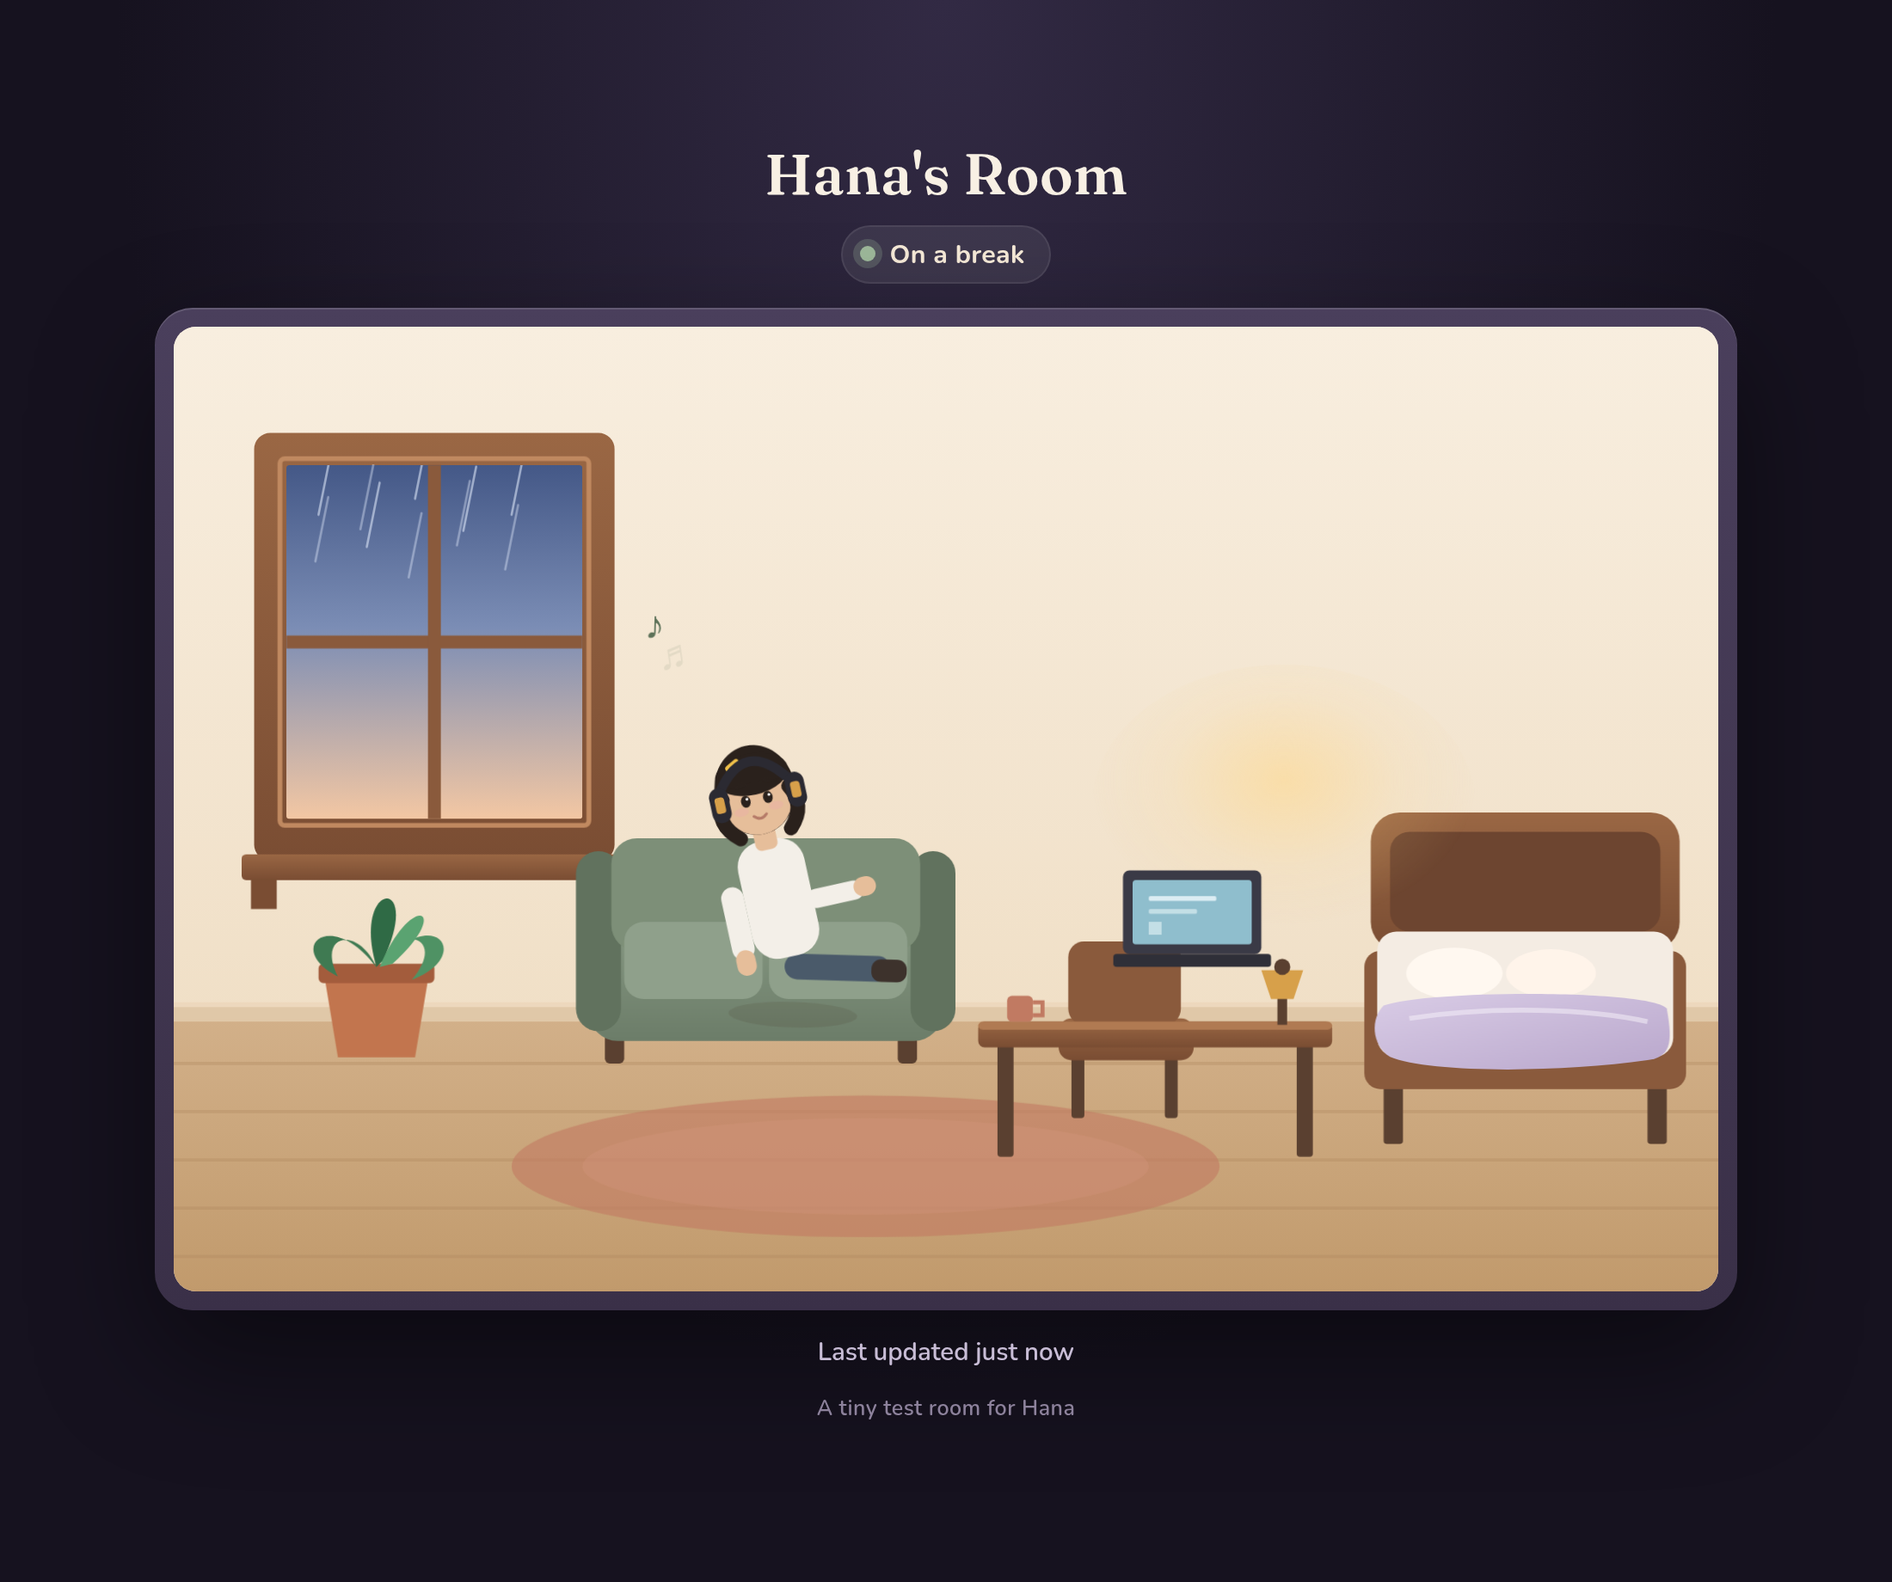
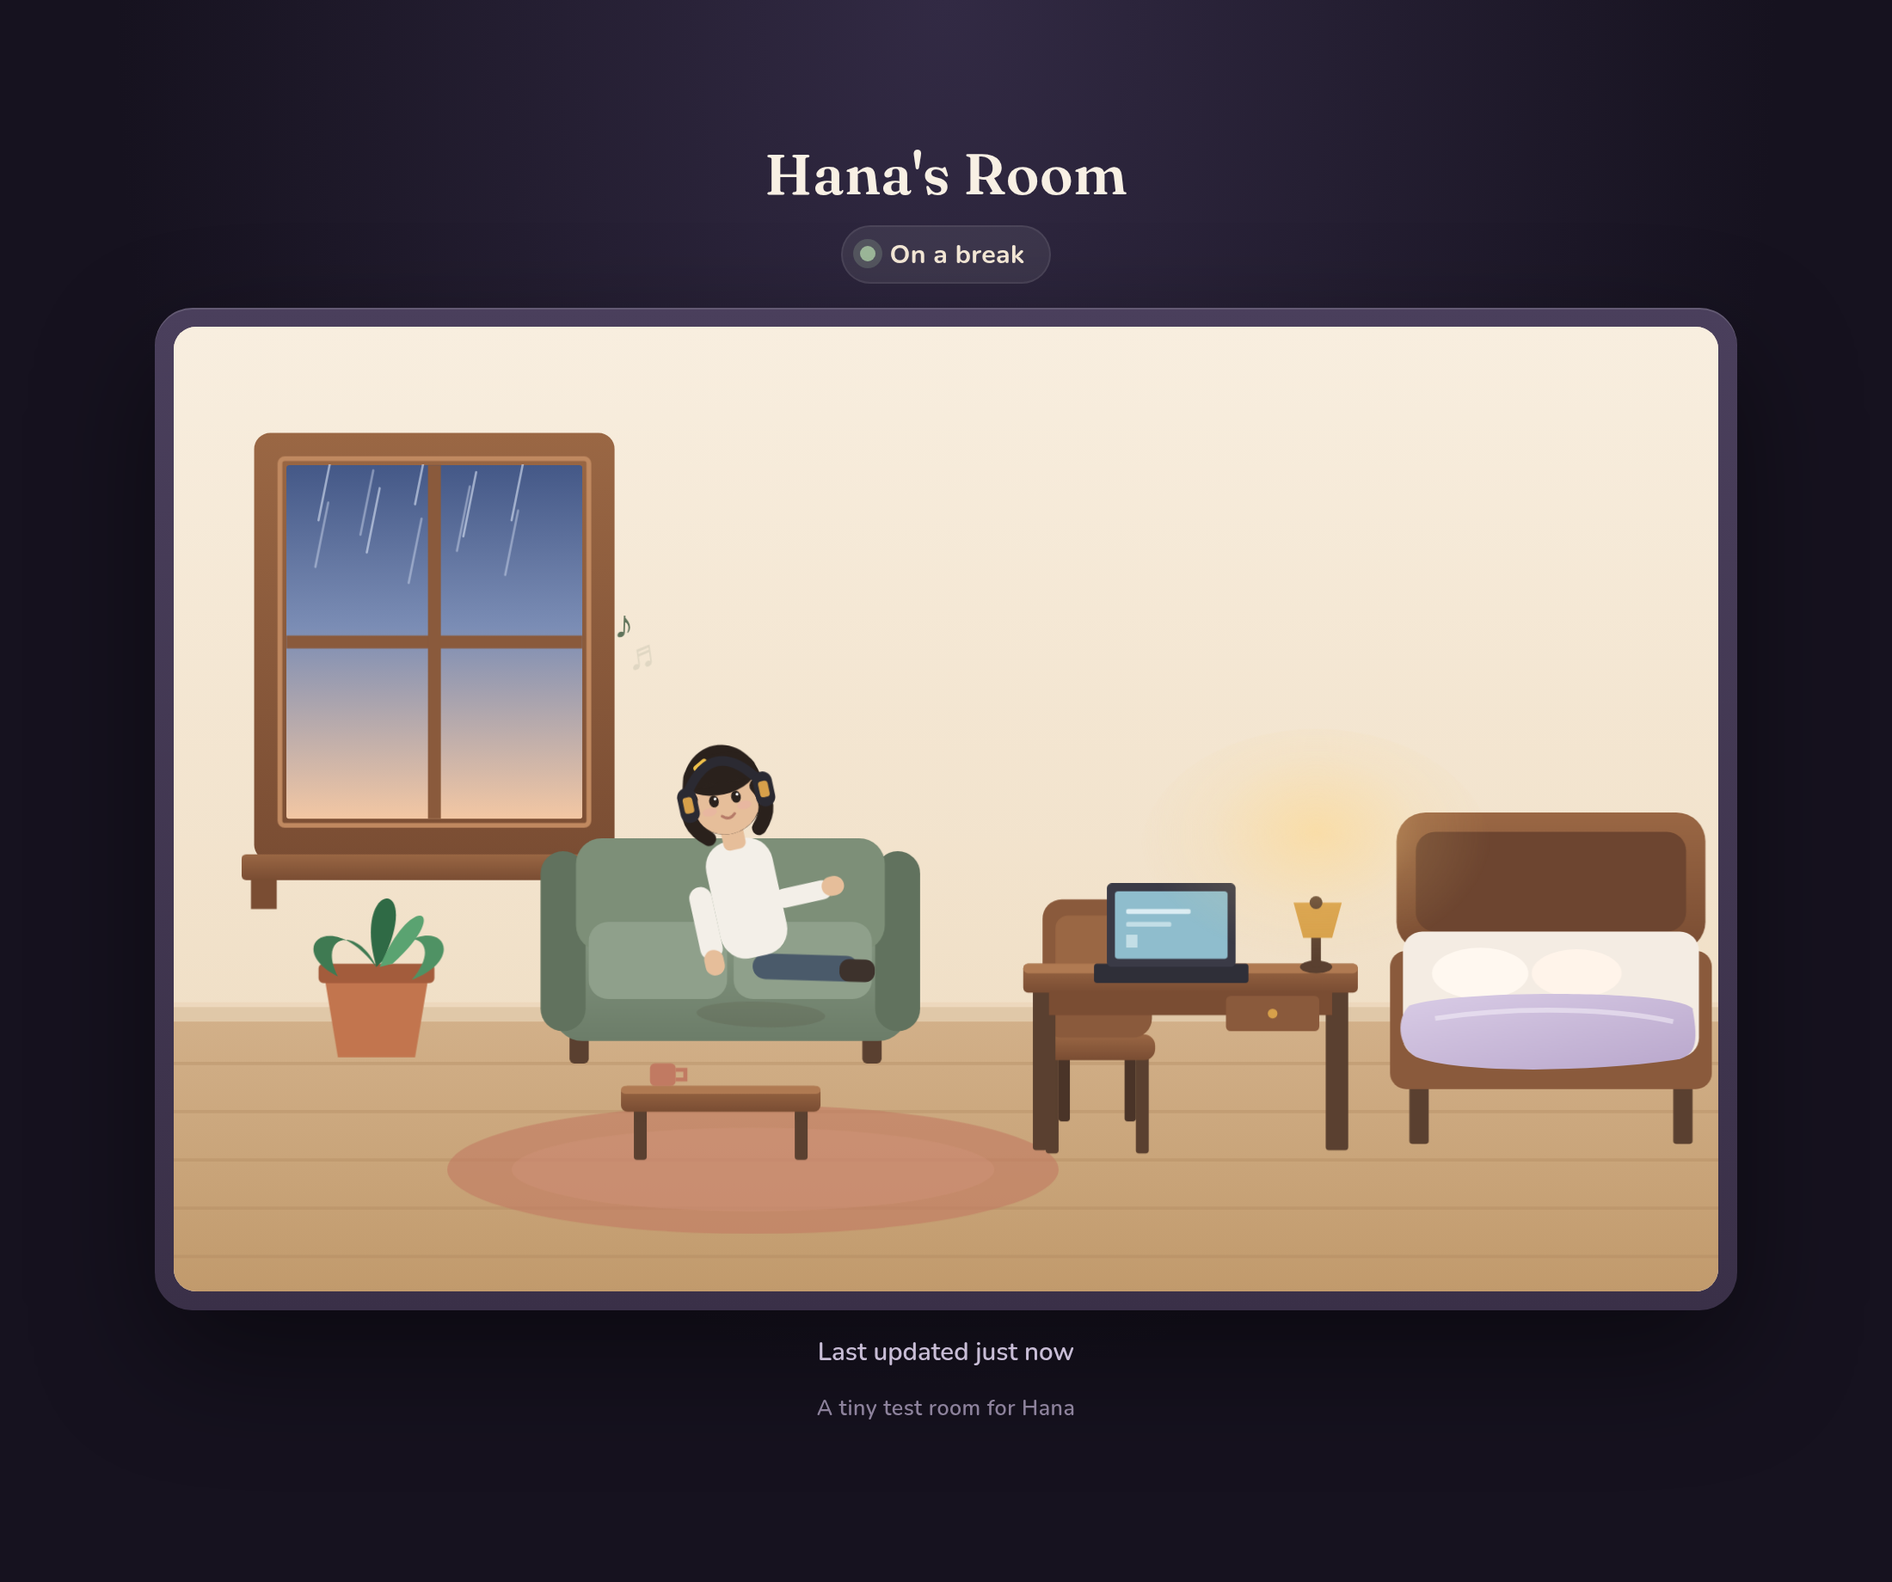
Fix room layout: real desk and chair, laptop sits on the desk
Move the coffee table in front of the couch. Seat Hana in a desk chair at a proper-height desk with the laptop flush on the surface and her hands on the keyboard.

Changed region(s): [[0.2164, 0.4647, 0.7727, 0.7745], [0.8345, 0.4957, 0.9273, 0.7435]]

diff --git a/public/index.html b/public/index.html
@@ -125,7 +125,7 @@
           </g>
 
           <!-- bed (back right), sitting on the floor -->
-          <g transform="translate(20, 40)">
+          <g transform="translate(36, 40)">
             <rect x="724" y="262" width="192" height="86" rx="18" fill="url(#wood)"/>
             <rect x="736" y="274" width="168" height="62" rx="12" fill="#6d4530"/>
             <rect x="732" y="428" width="12" height="40" rx="2" fill="#5a4030"/>
@@ -164,8 +164,8 @@
             </g>
           </g>
 
-          <!-- couch -->
-          <g transform="translate(250, 318)">
+          <!-- couch, against the back wall -->
+          <g transform="translate(228, 318)">
             <rect x="18" y="118" width="12" height="22" rx="3" fill="#5a4030"/>
             <rect x="200" y="118" width="12" height="22" rx="3" fill="#5a4030"/>
             <rect x="8" y="40" width="220" height="86" rx="18" fill="url(#sage)"/>
@@ -177,7 +177,7 @@
           </g>
 
           <!-- Hana on the couch -->
-          <g class="hana hana-free" transform="translate(368, 392)">
+          <g class="hana hana-free" transform="translate(348, 392)">
             <g class="hana-free-root">
               <ellipse cx="4" cy="48" rx="40" ry="8" fill="#3a2a1c" opacity="0.12"/>
               <rect x="-2" y="10" width="66" height="16" rx="8" fill="#4a5a6a"/>
@@ -189,7 +189,6 @@
                 <rect x="16" y="-26" width="36" height="12" rx="6" fill="#f3efe8"/>
                 <rect x="46" y="-27" width="14" height="12" rx="6" fill="#e6be9a"/>
                 <rect x="-8" y="-72" width="14" height="16" rx="4" fill="#e6be9a"/>
-                <!-- hair back, then face, then bangs above the eyes -->
                 <ellipse cx="-1" cy="-94" rx="25" ry="28" fill="#2a211c"/>
                 <circle cx="-1" cy="-88" r="22" fill="#e6be9a"/>
                 <ellipse cx="-1" cy="-104" rx="23" ry="13" fill="#2a211c"/>
@@ -198,7 +197,6 @@
                 <path d="M -22,-92 Q -30,-78 -16,-66" stroke="#2a211c" stroke-width="9" fill="none" stroke-linecap="round"/>
                 <path d="M 20,-92 Q 28,-78 16,-66" stroke="#2a211c" stroke-width="9" fill="none" stroke-linecap="round"/>
                 <rect x="-16" y="-114" width="10" height="6" rx="2" fill="#f0c14a" transform="rotate(-28 -11 -111)"/>
-                <!-- headphones on top of hair -->
                 <path d="M -22,-98 Q -1,-126 20,-98" stroke="#2b2a32" stroke-width="6" fill="none" stroke-linecap="round"/>
                 <rect x="-30" y="-100" width="12" height="22" rx="6" fill="#2b2a32"/>
                 <rect x="18" y="-100" width="12" height="22" rx="6" fill="#2b2a32"/>
@@ -219,12 +217,24 @@
             </g>
           </g>
 
-          <!-- rug -->
-          <ellipse cx="430" cy="522" rx="220" ry="44" fill="#c17a62" opacity="0.62"/>
-          <ellipse cx="430" cy="522" rx="176" ry="30" fill="#d89a82" opacity="0.28"/>
+          <!-- living-room rug, under the couch and coffee table -->
+          <ellipse cx="360" cy="524" rx="190" ry="40" fill="#c17a62" opacity="0.62"/>
+          <ellipse cx="360" cy="524" rx="150" ry="26" fill="#d89a82" opacity="0.28"/>
 
-          <!-- waiting Hana, standing on the rug -->
-          <g class="hana hana-waiting" transform="translate(430, 516)">
+          <!-- coffee table in front of the couch -->
+          <g transform="translate(278, 448)">
+            <rect x="8" y="40" width="8" height="30" rx="2" fill="#5a4030"/>
+            <rect x="108" y="40" width="8" height="30" rx="2" fill="#5a4030"/>
+            <rect x="8" y="36" width="8" height="10" rx="2" fill="#5a4030"/>
+            <rect x="108" y="36" width="8" height="10" rx="2" fill="#5a4030"/>
+            <rect x="0" y="24" width="124" height="16" rx="4" fill="url(#wood)"/>
+            <rect x="0" y="24" width="124" height="5" rx="3" fill="#b07a52"/>
+            <rect x="18" y="10" width="16" height="14" rx="3" fill="#c17a62"/>
+            <path d="M 34 14 H 40 V 20 H 34" fill="none" stroke="#c17a62" stroke-width="2.5"/>
+          </g>
+
+          <!-- waiting Hana, standing on the open floor between the table and desk -->
+          <g class="hana hana-waiting" transform="translate(444, 516)">
             <ellipse cx="0" cy="-4" rx="34" ry="8" fill="#3a2a1c" opacity="0.22"/>
             <ellipse cx="0" cy="-148" rx="30" ry="36" fill="#2a211c"/>
             <path d="M -28,-140 C -34,-118 -28,-98 -18,-96 L 18,-96 C 28,-98 34,-118 28,-140" fill="#2a211c"/>
@@ -262,78 +272,83 @@
             <path d="M -6,-144 Q 0,-140 6,-144" stroke="#b67b68" stroke-width="1.8" fill="none" stroke-linecap="round"/>
           </g>
 
-          <!-- chair -->
-          <g transform="translate(548, 400)">
-            <rect x="10" y="52" width="8" height="40" rx="2" fill="#5a4030"/>
-            <rect x="68" y="52" width="8" height="40" rx="2" fill="#5a4030"/>
-            <rect x="2" y="30" width="84" height="26" rx="8" fill="url(#wood)"/>
-            <rect x="8" y="-18" width="70" height="52" rx="10" fill="#8a5a3c"/>
+          <!-- desk chair, in front of the desk -->
+          <g transform="translate(528, 348)">
+            <rect x="14" y="100" width="8" height="66" rx="2" fill="#5a4030"/>
+            <rect x="70" y="100" width="8" height="66" rx="2" fill="#5a4030"/>
+            <rect x="22" y="90" width="7" height="56" rx="2" fill="#4a3428"/>
+            <rect x="63" y="90" width="7" height="56" rx="2" fill="#4a3428"/>
+            <rect x="10" y="92" width="72" height="16" rx="7" fill="url(#wood)"/>
+            <rect x="12" y="8" width="68" height="86" rx="12" fill="#8a5a3c"/>
+            <rect x="20" y="18" width="52" height="58" rx="8" fill="#9a6744"/>
           </g>
 
-          <!-- working Hana at the desk, in the chair -->
-          <g class="hana hana-working" transform="translate(568, 456)">
-            <ellipse cx="6" cy="8" rx="36" ry="8" fill="#3a2a1c" opacity="0.18"/>
-            <rect x="-18" y="-36" width="14" height="36" rx="6" fill="#4a5a6a"/>
-            <rect x="6" y="-36" width="14" height="36" rx="6" fill="#4a5a6a"/>
-            <rect x="-20" y="-6" width="18" height="11" rx="4" fill="#3d322c"/>
-            <rect x="4" y="-6" width="18" height="11" rx="4" fill="#3d322c"/>
-            <rect x="-20" y="-52" width="48" height="18" rx="8" fill="#4a5a6a"/>
-            <g transform="rotate(6)">
-              <rect x="-22" y="-116" width="40" height="70" rx="14" fill="#f3efe8"/>
-              <rect x="-9" y="-124" width="14" height="14" rx="4" fill="#e6be9a"/>
-              <ellipse cx="-2" cy="-144" rx="26" ry="30" fill="#2a211c"/>
-              <circle cx="-2" cy="-140" r="23" fill="#e6be9a"/>
-              <ellipse cx="-2" cy="-156" rx="22" ry="13" fill="#2a211c"/>
-              <path d="M -16,-150 Q -9,-145 -3,-151" fill="#2a211c"/>
-              <path d="M 1,-151 Q 8,-145 14,-150" fill="#2a211c"/>
-              <path d="M -22,-146 Q -30,-130 -16,-118" stroke="#2a211c" stroke-width="9" fill="none" stroke-linecap="round"/>
-              <path d="M 18,-146 Q 26,-130 16,-118" stroke="#2a211c" stroke-width="9" fill="none" stroke-linecap="round"/>
-              <rect x="-18" y="-166" width="10" height="6" rx="2" fill="#f0c14a" transform="rotate(-24 -13 -163)"/>
-              <ellipse cx="-13" cy="-134" rx="4.5" ry="2.6" fill="#e8b4a2" opacity="0.7"/>
-              <ellipse cx="9" cy="-134" rx="4.5" ry="2.6" fill="#e8b4a2" opacity="0.7"/>
+          <!-- working Hana seated on the chair (body behind the desk top) -->
+          <g class="hana hana-working" transform="translate(568, 514)">
+            <ellipse cx="6" cy="-2" rx="36" ry="8" fill="#3a2a1c" opacity="0.18"/>
+            <rect x="-16" y="-62" width="14" height="50" rx="6" fill="#4a5a6a"/>
+            <rect x="8" y="-62" width="14" height="50" rx="6" fill="#4a5a6a"/>
+            <rect x="-18" y="-16" width="18" height="12" rx="4" fill="#3d322c"/>
+            <rect x="6" y="-16" width="18" height="12" rx="4" fill="#3d322c"/>
+            <rect x="-18" y="-78" width="52" height="18" rx="8" fill="#4a5a6a"/>
+            <g transform="rotate(4)">
+              <rect x="-22" y="-146" width="42" height="74" rx="14" fill="#f3efe8"/>
+              <rect x="-9" y="-154" width="14" height="14" rx="4" fill="#e6be9a"/>
+              <ellipse cx="-2" cy="-174" rx="26" ry="30" fill="#2a211c"/>
+              <circle cx="-2" cy="-170" r="23" fill="#e6be9a"/>
+              <ellipse cx="-2" cy="-186" rx="22" ry="13" fill="#2a211c"/>
+              <path d="M -16,-180 Q -9,-175 -3,-181" fill="#2a211c"/>
+              <path d="M 1,-181 Q 8,-175 14,-180" fill="#2a211c"/>
+              <path d="M -22,-176 Q -30,-160 -16,-148" stroke="#2a211c" stroke-width="9" fill="none" stroke-linecap="round"/>
+              <path d="M 18,-176 Q 26,-160 16,-148" stroke="#2a211c" stroke-width="9" fill="none" stroke-linecap="round"/>
+              <rect x="-18" y="-196" width="10" height="6" rx="2" fill="#f0c14a" transform="rotate(-24 -13 -193)"/>
+              <ellipse cx="-13" cy="-164" rx="4.5" ry="2.6" fill="#e8b4a2" opacity="0.7"/>
+              <ellipse cx="9" cy="-164" rx="4.5" ry="2.6" fill="#e8b4a2" opacity="0.7"/>
               <g class="eyes">
-                <ellipse cx="-9" cy="-140" rx="3" ry="3.8" fill="#2a211c"/>
-                <ellipse cx="5" cy="-140" rx="3" ry="3.8" fill="#2a211c"/>
-                <circle cx="-8" cy="-141.3" r="0.9" fill="#fff"/>
-                <circle cx="6" cy="-141.3" r="0.9" fill="#fff"/>
+                <ellipse cx="-9" cy="-170" rx="3" ry="3.8" fill="#2a211c"/>
+                <ellipse cx="5" cy="-170" rx="3" ry="3.8" fill="#2a211c"/>
+                <circle cx="-8" cy="-171.3" r="0.9" fill="#fff"/>
+                <circle cx="6" cy="-171.3" r="0.9" fill="#fff"/>
               </g>
-              <path d="M -13,-150 Q -9,-152 -5,-150" stroke="#2a211c" stroke-width="1.5" fill="none" stroke-linecap="round"/>
-              <path d="M 2,-150 Q 6,-152 10,-150" stroke="#2a211c" stroke-width="1.5" fill="none" stroke-linecap="round"/>
-              <path d="M -6,-130 Q -1,-127 4,-130" stroke="#b67b68" stroke-width="1.6" fill="none" stroke-linecap="round"/>
+              <path d="M -13,-180 Q -9,-182 -5,-180" stroke="#2a211c" stroke-width="1.5" fill="none" stroke-linecap="round"/>
+              <path d="M 2,-180 Q 6,-182 10,-180" stroke="#2a211c" stroke-width="1.5" fill="none" stroke-linecap="round"/>
+              <path d="M -6,-160 Q -1,-157 4,-160" stroke="#b67b68" stroke-width="1.6" fill="none" stroke-linecap="round"/>
             </g>
           </g>
 
-          <!-- desk + lamp + laptop (in front of legs) -->
-          <g transform="translate(500, 390)">
-            <rect x="12" y="56" width="10" height="70" rx="2" fill="#5a4030"/>
-            <rect x="198" y="56" width="10" height="70" rx="2" fill="#5a4030"/>
-            <rect x="0" y="42" width="220" height="16" rx="4" fill="url(#wood)"/>
-            <rect x="0" y="42" width="220" height="5" rx="3" fill="#b07a52"/>
-            <rect x="18" y="26" width="16" height="16" rx="3" fill="#c17a62"/>
-            <path d="M 34 30 H 40 V 38 H 34" fill="none" stroke="#c17a62" stroke-width="2.5"/>
-            <rect x="186" y="8" width="6" height="36" fill="#5a4030"/>
-            <path d="M 176 10 L 202 10 L 196 28 L 182 28 Z" fill="#d7a04a"/>
-            <circle cx="189" cy="8" r="5" fill="#5a4030"/>
+          <!-- proper desk: tall surface, laptop sitting flush on it -->
+          <g transform="translate(528, 396)">
+            <rect x="6" y="16" width="14" height="100" rx="2" fill="#5a4030"/>
+            <rect x="188" y="16" width="14" height="100" rx="2" fill="#5a4030"/>
+            <rect x="16" y="16" width="176" height="16" fill="#7a4d33"/>
+            <rect x="126" y="20" width="58" height="22" rx="3" fill="#8a5a3c"/>
+            <circle cx="155" cy="31" r="3" fill="#d7a04a"/>
+            <rect x="0" y="0" width="208" height="18" rx="3" fill="url(#wood)"/>
+            <rect x="0" y="0" width="208" height="6" rx="3" fill="#b07a52"/>
+            <!-- lamp, base on the desk -->
+            <ellipse cx="182" cy="2" rx="10" ry="4" fill="#5a4030"/>
+            <rect x="179" y="-36" width="6" height="38" rx="2" fill="#5a4030"/>
+            <path d="M 168 -38 L 198 -38 L 192 -16 L 174 -16 Z" fill="#d7a04a"/>
+            <circle cx="182" cy="-38" r="4" fill="#5a4030"/>
+            <!-- laptop flush on the desktop: base on the surface, screen rising from the hinge -->
+            <g transform="translate(48, 2)">
+              <rect x="-4" y="-2" width="96" height="12" rx="2" fill="#2f2f38"/>
+              <rect x="4" y="-52" width="80" height="52" rx="3" fill="#3a3a46"/>
+              <rect x="9" y="-47" width="70" height="42" rx="2" fill="#9fd6e6" class="screen-glow"/>
+              <rect x="16" y="-36" width="40" height="3" rx="1" fill="#eff9fc" opacity="0.8"/>
+              <rect x="16" y="-28" width="28" height="3" rx="1" fill="#eff9fc" opacity="0.55"/>
+              <rect x="16" y="-20" width="7" height="8" fill="#eff9fc" opacity="0.9" class="cursor"/>
+            </g>
           </g>
-          <ellipse cx="690" cy="300" rx="120" ry="90" fill="url(#lampglow)"/>
+          <ellipse cx="710" cy="330" rx="110" ry="80" fill="url(#lampglow)"/>
 
-          <!-- laptop, a little to the right so her face stays visible -->
-          <g transform="translate(590, 378)">
-            <rect x="0" y="-40" width="86" height="52" rx="4" fill="#3a3a46"/>
-            <rect x="6" y="-34" width="74" height="40" rx="2" fill="#9fd6e6" class="screen-glow"/>
-            <rect x="16" y="-24" width="42" height="3" rx="1" fill="#eff9fc" opacity="0.8"/>
-            <rect x="16" y="-16" width="30" height="3" rx="1" fill="#eff9fc" opacity="0.55"/>
-            <rect x="16" y="-8" width="8" height="8" fill="#eff9fc" opacity="0.9" class="cursor"/>
-            <rect x="-6" y="12" width="98" height="8" rx="2" fill="#2f2f38"/>
-          </g>
-
-          <!-- typing hands in front of the laptop -->
-          <g class="hana hana-working" transform="translate(568, 456)">
+          <!-- typing hands on the keyboard, in front of the laptop -->
+          <g class="hana hana-working" transform="translate(568, 514)">
             <g class="hands">
-              <rect x="16" y="-72" width="16" height="36" rx="8" fill="#f3efe8"/>
-              <rect x="44" y="-72" width="16" height="36" rx="8" fill="#f3efe8"/>
-              <ellipse cx="24" cy="-38" rx="8" ry="6" fill="#e6be9a"/>
-              <ellipse cx="52" cy="-38" rx="8" ry="6" fill="#e6be9a"/>
+              <rect x="8" y="-128" width="14" height="22" rx="7" fill="#f3efe8"/>
+              <rect x="36" y="-128" width="14" height="22" rx="7" fill="#f3efe8"/>
+              <ellipse cx="15" cy="-108" rx="8" ry="5" fill="#e6be9a"/>
+              <ellipse cx="43" cy="-108" rx="8" ry="5" fill="#e6be9a"/>
             </g>
           </g>
         </svg>

diff --git a/public/styles.css b/public/styles.css
@@ -150,8 +150,8 @@ main:has(.stage[data-state="waiting"]) .dot { background: var(--waiting); box-sh
 }
 
 .bubble {
-  left: 46%;
-  top: 22%;
+  left: 54%;
+  top: 20%;
   max-width: 230px;
   background: #fffaf3;
   color: #3a2e28;
@@ -177,7 +177,7 @@ main:has(.stage[data-state="waiting"]) .dot { background: var(--waiting); box-sh
 }
 
 .question {
-  left: 48%;
+  left: 47%;
   top: 18%;
   width: 44px;
   height: 44px;
@@ -194,7 +194,7 @@ main:has(.stage[data-state="waiting"]) .dot { background: var(--waiting); box-sh
 }
 
 .zzz {
-  left: 74%;
+  left: 76%;
   right: auto;
   top: 45%;
   color: #5c4e74;
@@ -214,7 +214,7 @@ main:has(.stage[data-state="waiting"]) .dot { background: var(--waiting); box-sh
 .zzz span:nth-child(3) { animation-delay: 2s; font-size: 0.95rem; }
 
 .notes {
-  left: 30%;
+  left: 28%;
   top: 30%;
   color: #3f5a40;
   font-size: 1.45rem;
